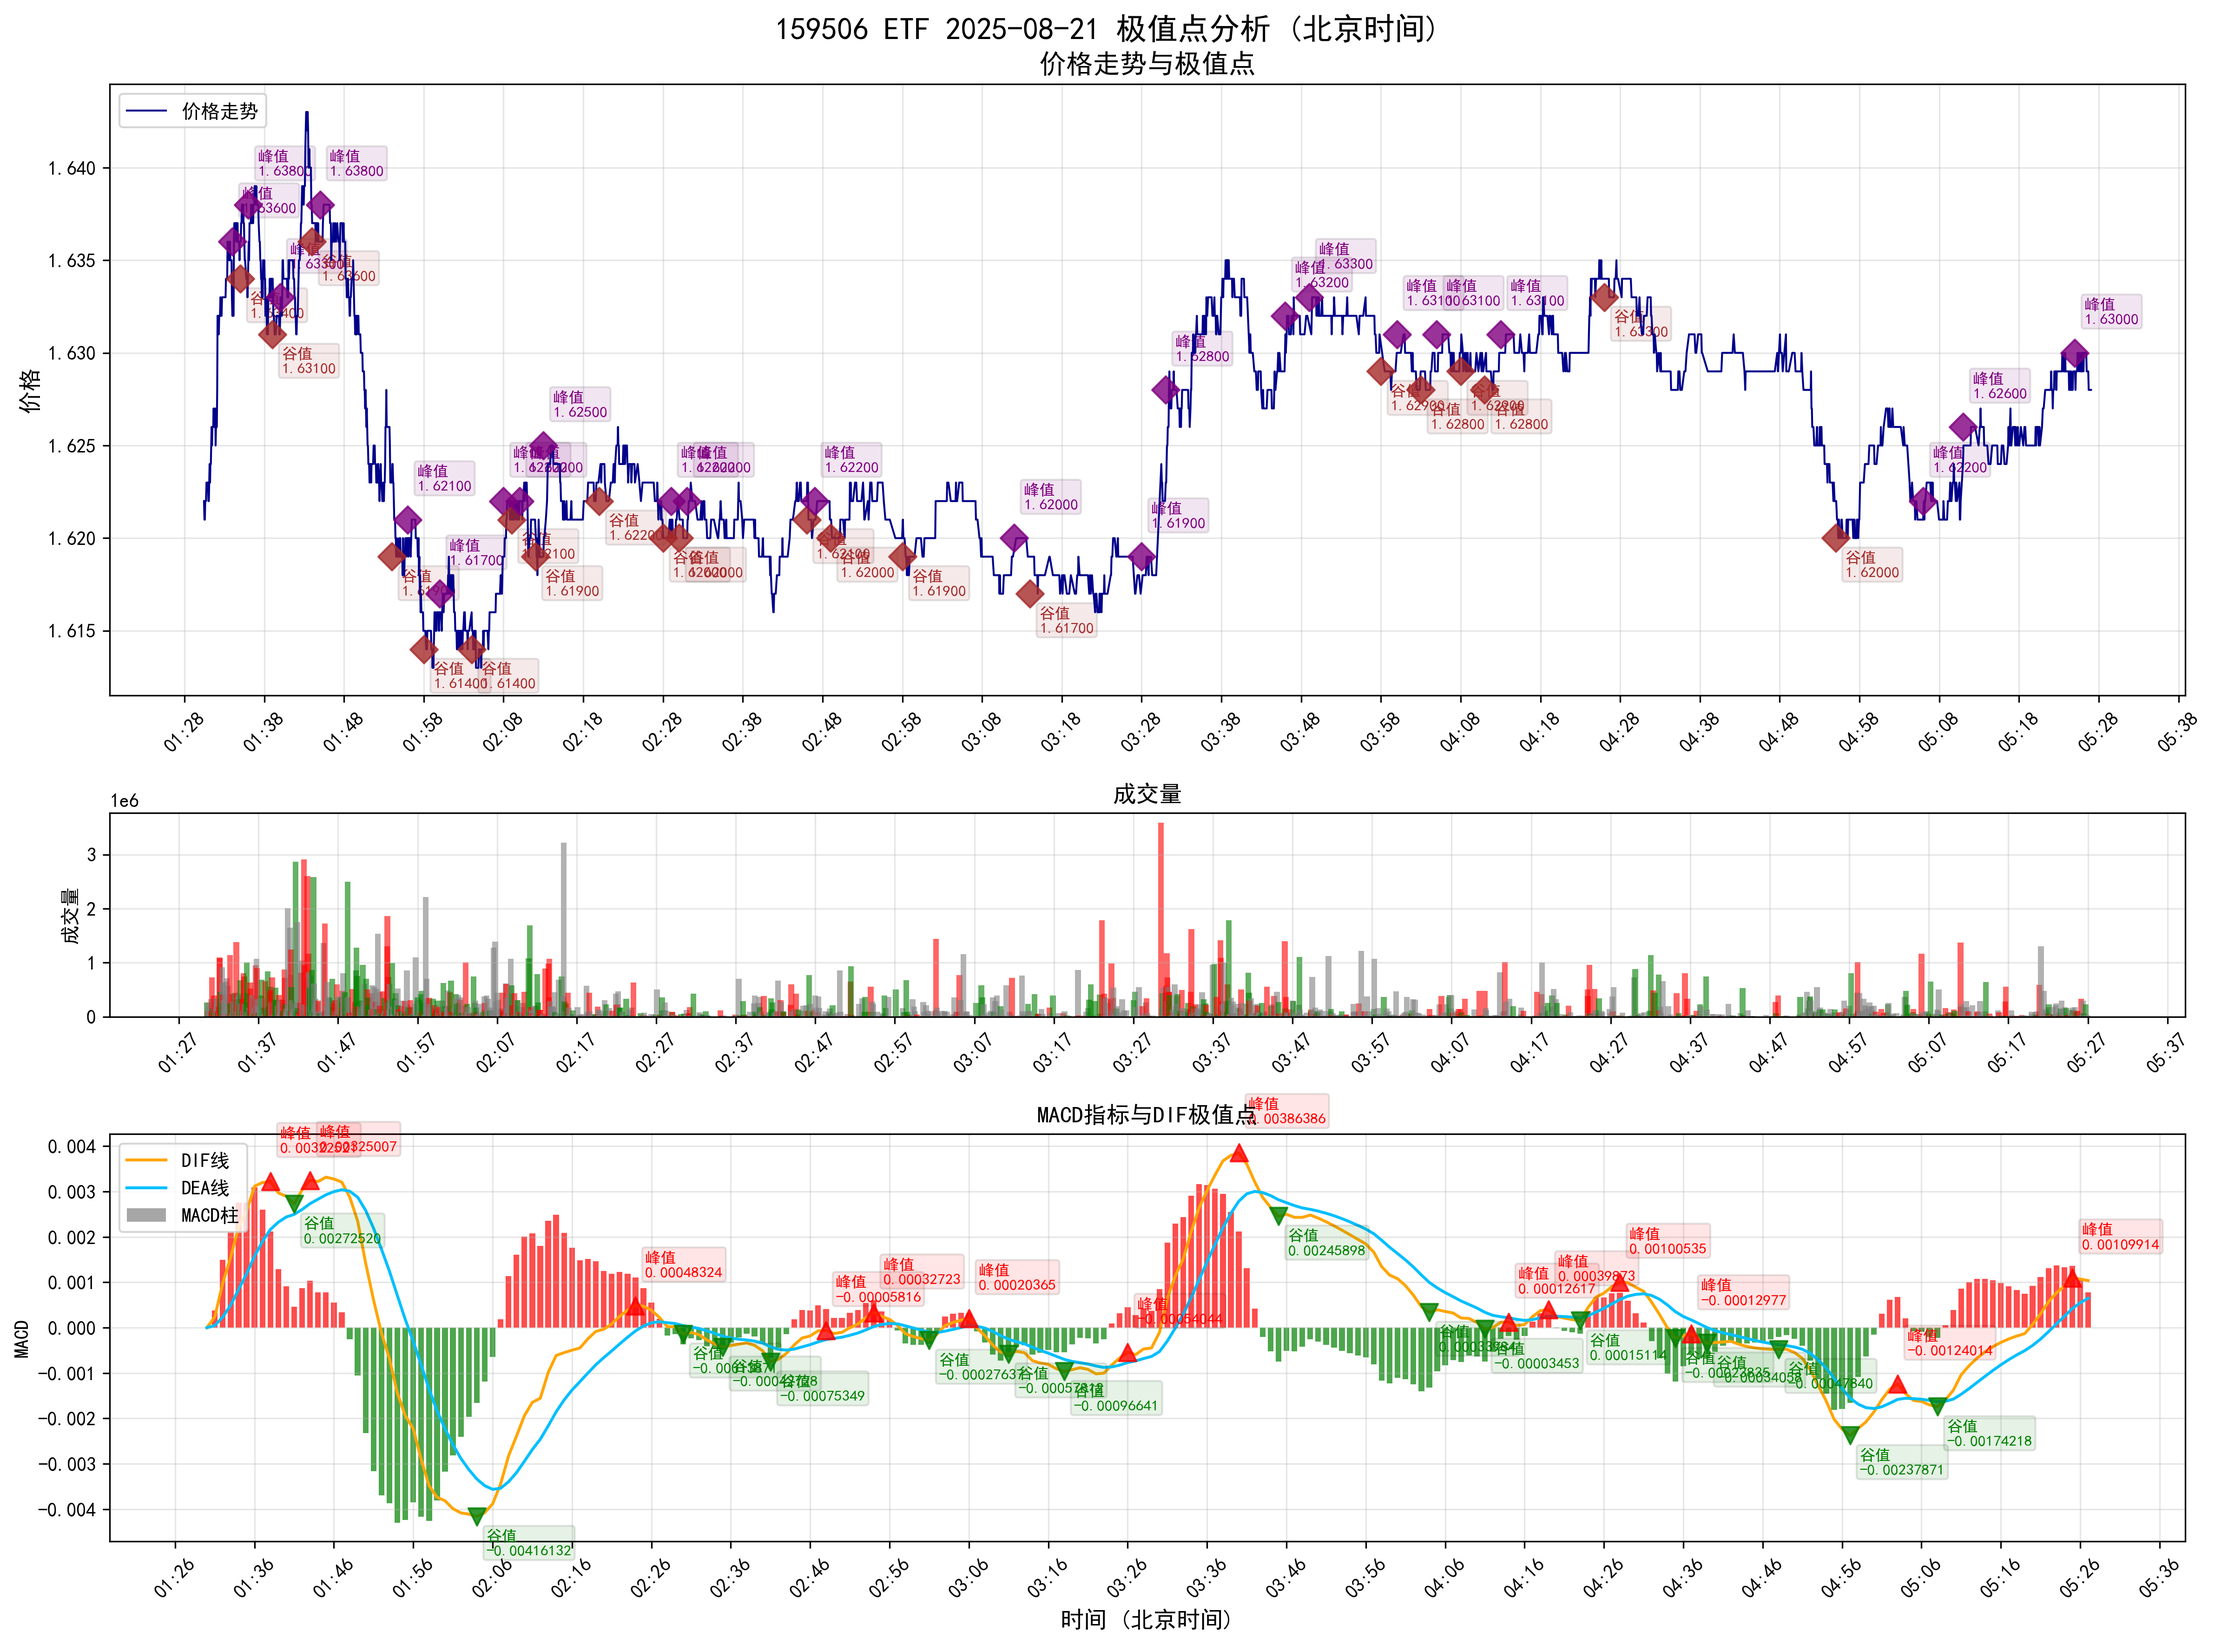
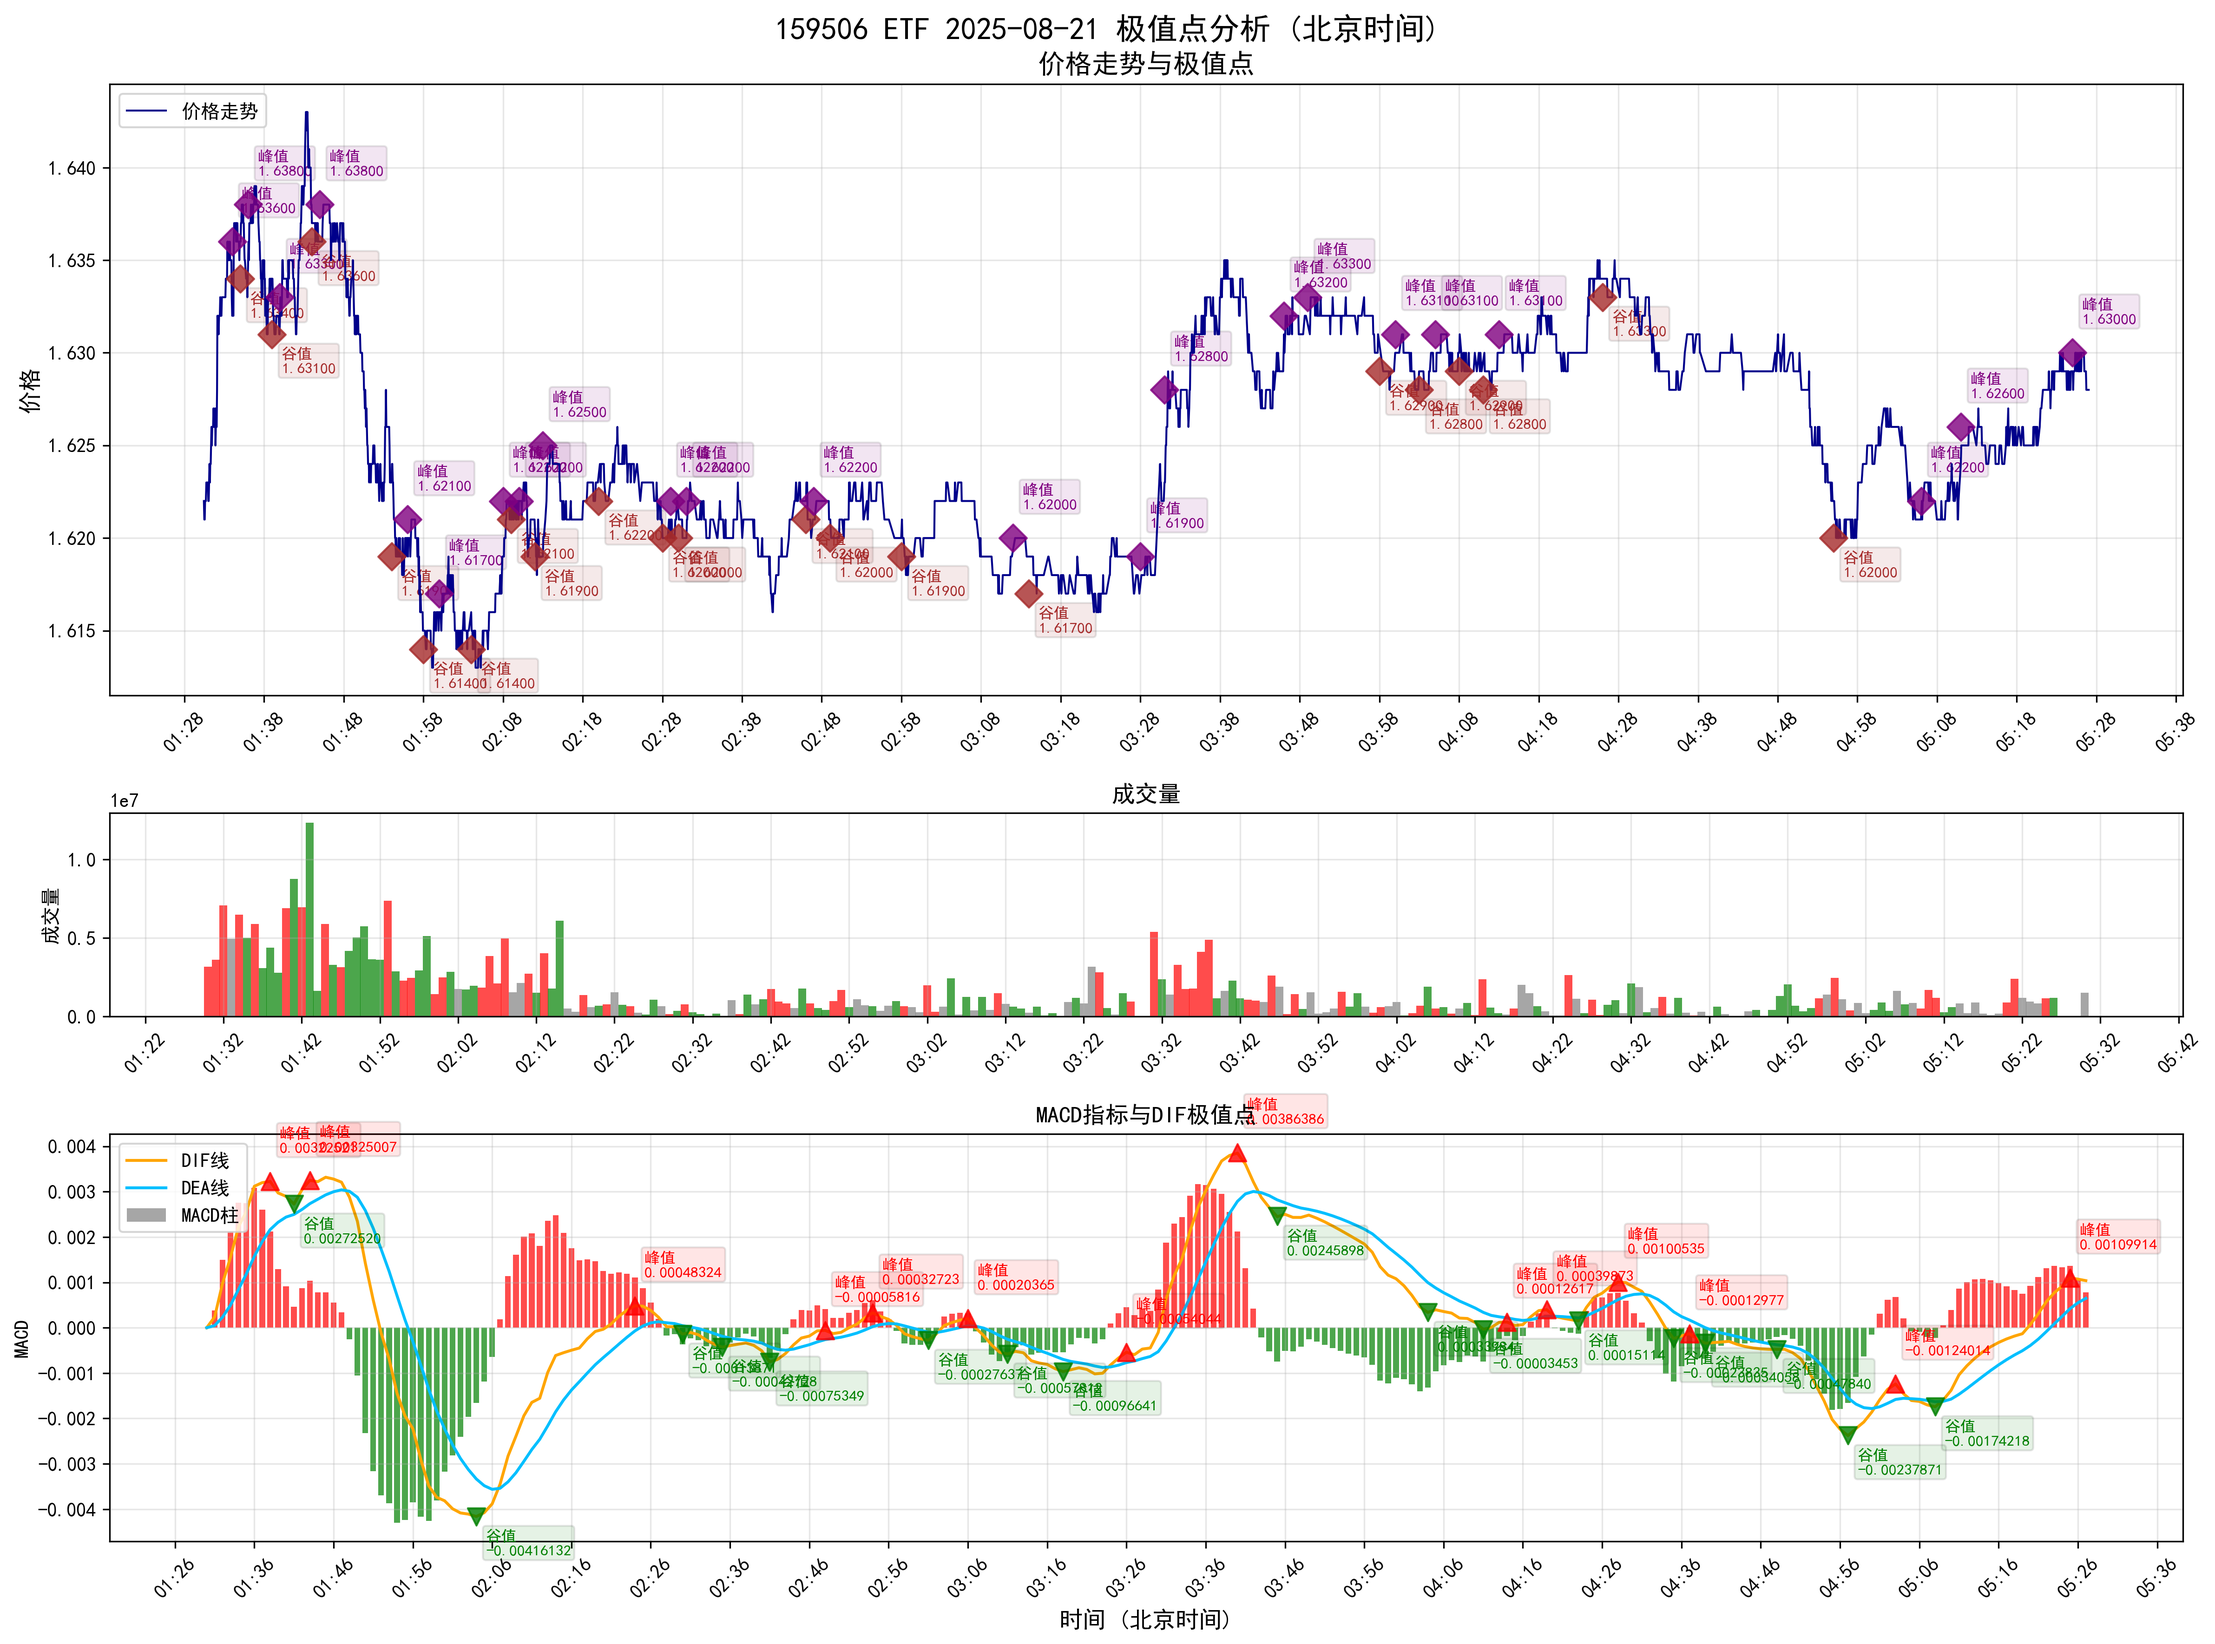
1

diff --git a/etf_159506_strategy.py b/etf_159506_strategy.py
@@ -309,6 +309,12 @@ class ETF159506Strategy(Strategy):
         self.scheduled_buy_time = time(14, 50)  # 2:50分买入（北京时间）
         self.last_scheduled_buy_date = None  # 记录上次定时买入的日期
         self._log.info(f"定时买入功能已启用: 每天北京时间 {self.scheduled_buy_time.strftime('%H:%M')} 执行买入")
+        
+        # 每分钟成交量记录
+        self.minute_volume_data = {}  # 存储每分钟成交量数据 {minute_key: total_volume}
+        self.current_minute = None  # 当前分钟标识
+        self.current_minute_volume = 0  # 当前分钟累计成交量
+        self._log.info("每分钟成交量记录功能已启用")
 
     def on_start(self):
         """策略启动时调用"""
@@ -360,10 +366,85 @@ class ETF159506Strategy(Strategy):
             }
             self._log.info(f"策略停止时保存了 {len(self.price_peaks)} 个价格峰值, {len(self.price_troughs)} 个价格谷值, {len(self.dif_peaks)} 个DIF峰值, {len(self.dif_troughs)} 个DIF谷值")
         
+        # 保存最后一分钟的成交量数据
+        if self.current_minute is not None and self.current_minute not in self.minute_volume_data:
+            self.minute_volume_data[self.current_minute] = self.current_minute_volume
+            self._log.info(f"保存最后一分钟成交量数据: {self.current_minute} - 成交量: {self.current_minute_volume}")
+        
+        # 保存每分钟成交量数据到策略实例变量中，供回测系统获取
+        if not hasattr(self, '_saved_minute_volume_data'):
+            self._saved_minute_volume_data = self.minute_volume_data.copy()
+            self._log.info(f"策略停止时保存了 {len(self.minute_volume_data)} 分钟的成交量数据")
+        
         self.print_extremes_history()
+        
+        # 打印每分钟成交量汇总
+        self.print_minute_volume_data()
+    
+    def record_minute_volume(self, bar: Bar):
+        """记录每分钟成交量数据"""
+        # 转换为北京时间
+        utc_time = pd.to_datetime(bar.ts_event, unit='ns')
+        beijing_time = utc_time.tz_localize('UTC').tz_convert('Asia/Shanghai')
+        
+        # 创建分钟标识（格式：YYYY-MM-DD HH:MM）
+        minute_key = beijing_time.strftime('%Y-%m-%d %H:%M')
+        
+        # 如果进入新的分钟，保存上一分钟的数据
+        if self.current_minute is not None and self.current_minute != minute_key:
+            self.minute_volume_data[self.current_minute] = self.current_minute_volume
+            self._log.info(f"分钟成交量记录: {self.current_minute} - 成交量: {self.current_minute_volume}")
+            
+            # 重置当前分钟数据
+            self.current_minute_volume = 0
+        
+        # 更新当前分钟数据
+        self.current_minute = minute_key
+        self.current_minute_volume += bar.volume.as_double()
+    
+    def get_minute_volume_summary(self):
+        """获取每分钟成交量汇总数据"""
+        summary = []
+        for minute_key, volume in self.minute_volume_data.items():
+            summary.append({
+                'minute_time': minute_key,
+                'total_volume': volume
+            })
+        
+        # 按时间排序
+        summary.sort(key=lambda x: x['minute_time'])
+        return summary
+    
+    def print_minute_volume_data(self, start_time=None, end_time=None):
+        """打印每分钟成交量数据"""
+        summary = self.get_minute_volume_summary()
+        
+        if not summary:
+            self._log.info("没有每分钟成交量数据可显示")
+            return
+        
+        # 如果指定了时间范围，进行筛选
+        if start_time and end_time:
+            filtered_summary = [s for s in summary if start_time <= s['minute_time'] <= end_time]
+            self._log.info(f"筛选时间范围: {start_time} 到 {end_time}")
+            self._log.info(f"筛选到的分钟数: {len(filtered_summary)}")
+        else:
+            filtered_summary = summary
+            self._log.info(f"总分钟数: {len(filtered_summary)}")
+        
+        self._log.info("\n每分钟成交量统计:")
+        self._log.info("=" * 50)
+        self._log.info(f"{'时间':<20} {'成交量':<15}")
+        self._log.info("-" * 50)
+        
+        for data in filtered_summary:
+            self._log.info(f"{data['minute_time']:<20} {data['total_volume']:<15}")
         
     def on_bar(self, bar: Bar):
         """处理K线数据"""
+        # 记录每分钟成交量
+        self.record_minute_volume(bar)
+        
         # 更新MACD指标
         self.macd.handle_bar(bar)
         
